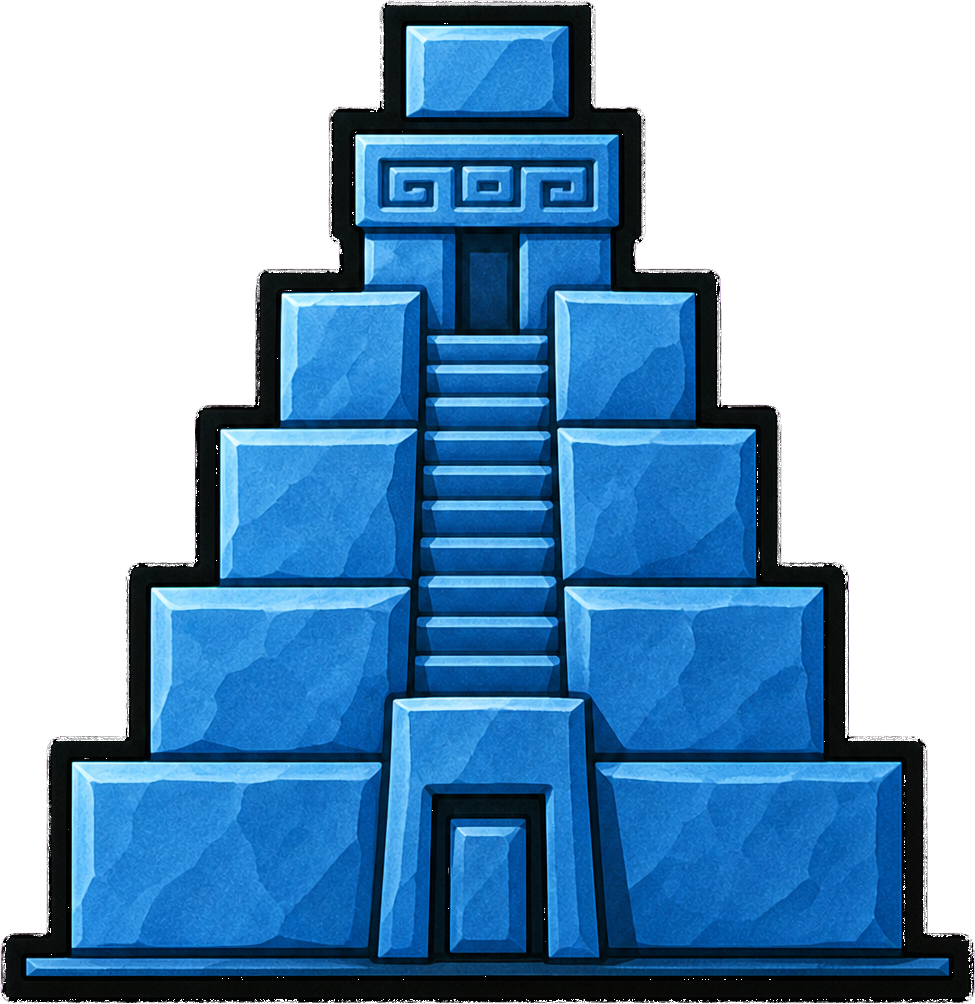
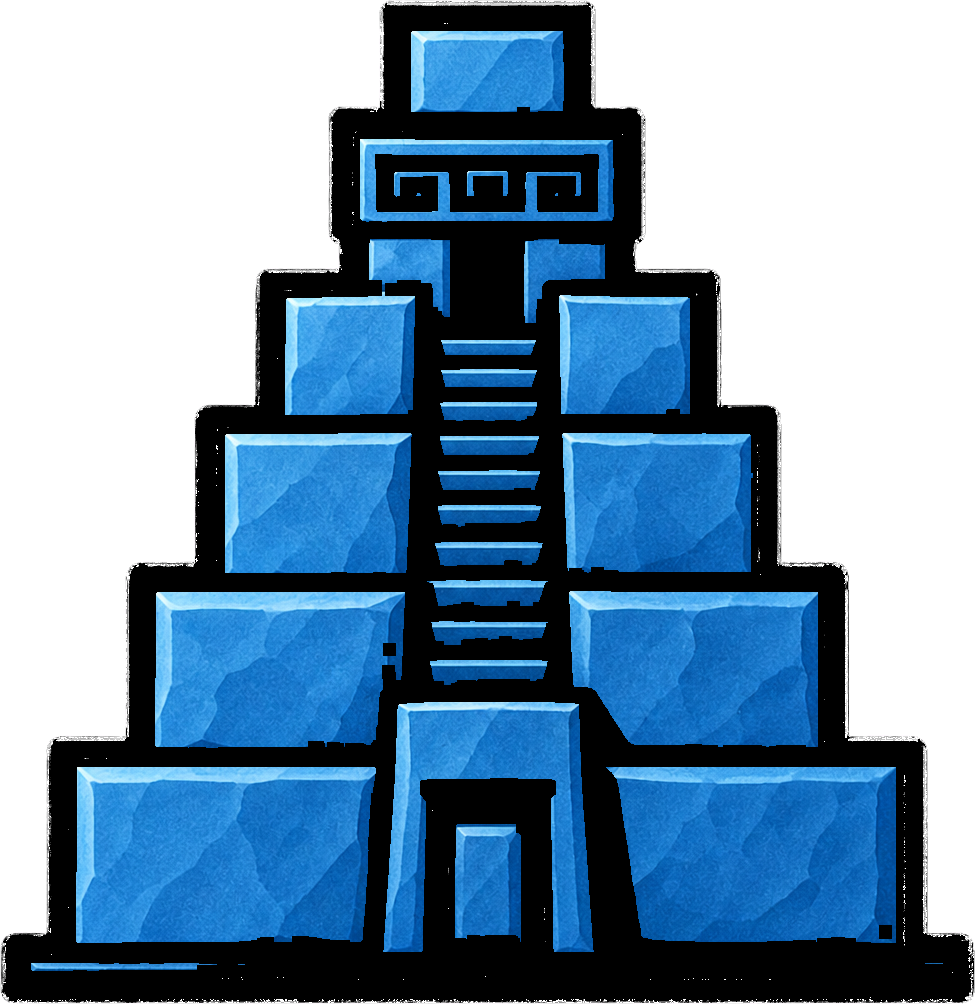
Thicken Aztec/Rome/Greece piece outlines to match Japan/Norse/Egypt boldness
Added thicken_piece_lines.py: finds near-black pixels within a piece's
alpha shape (covers both the outer border and interior detail lines -
same 'ink' in this style), opens (erode+dilate) to drop stray
anti-aliased speckle noise first, then dilates the real linework
inward by a radius proportional to canvas size. Dilation is
intersected with the original alpha mask, so it can only thicken the
stroke - never extend the silhouette or bleed into transparent
background.

Applied only to the 6 files actually flagged (aztec-/rome-/
greece-{settlement,city}.png). Tried the same formula on
japan-settlement.png too (since 'thicker everywhere' was offered as an
option) but it visibly degraded the roof's smooth edge into a jagged
staircase - a curved edge is more sensitive to a disk structuring
element's blockiness than the flagged pieces' more angular
silhouettes - so that broader pass was reverted rather than shipped.

Claude-Session: https://claude.ai/code/session_01454PvXy951ApESgbZz1ejR

Changed region(s): [[0.0308, 0.0, 0.9846, 0.988]]

diff --git a/design-references/tiles/_scripts/thicken_piece_lines.py b/design-references/tiles/_scripts/thicken_piece_lines.py
@@ -1,0 +1,75 @@
+#!/usr/bin/env python3
+"""Thicken the black outline/detail lines of a painted piece PNG in place,
+without touching its silhouette size or any non-black color.
+
+Finds near-black pixels within the piece's own alpha shape (the outer
+silhouette border AND interior detail lines - doorways, arches, etc. - are
+all the same "black ink" in this art style, so one operation covers both),
+dilates that mask inward by `radius` pixels using a disk structuring
+element, and recolors the newly-covered pixels black. Dilating is
+intersected with the original alpha mask, so growth can only eat into the
+piece's own colored area, never bleed outside the silhouette into the
+transparent background - the shape's outer edge doesn't move, the stroke
+drawn along it just gets wider.
+
+Usage:
+  python3 thicken_piece_lines.py <piece.png> <radius_px> [--threshold 70]
+"""
+import argparse
+from pathlib import Path
+
+import numpy as np
+from PIL import Image
+from scipy.ndimage import binary_dilation, binary_opening, generate_binary_structure, iterate_structure
+
+
+def thicken(path: Path, radius: int, threshold: int) -> None:
+    im = Image.open(path).convert("RGBA")
+    arr = np.asarray(im).astype(np.uint8)
+    rgb = arr[:, :, :3].astype(np.int32)
+    alpha = arr[:, :, 3]
+
+    is_opaque = alpha > 10
+    is_dark = rgb.sum(axis=2) < threshold * 3
+    black_mask = is_dark & is_opaque
+
+    # Opening (erode then dilate) with a small fixed structure first -
+    # removes lone speckle noise (a few near-black anti-aliased pixels
+    # inside a shaded area that happen to cross the darkness threshold,
+    # not real linework) before growing anything, so growth only amplifies
+    # actual connected stroke lines, not scattered specks into blobs.
+    if black_mask.any():
+        black_mask = binary_opening(black_mask, structure=generate_binary_structure(2, 2))
+
+    if radius > 0:
+        structure = iterate_structure(generate_binary_structure(2, 2), radius)
+        dilated = binary_dilation(black_mask, structure=structure)
+        dilated &= is_opaque
+    else:
+        dilated = black_mask
+
+    out = arr.copy()
+    out[dilated, 0] = 0
+    out[dilated, 1] = 0
+    out[dilated, 2] = 0
+    # Alpha untouched - only recoloring existing opaque pixels, never
+    # extending the shape's own silhouette.
+
+    added_pct = 100 * (dilated.sum() - black_mask.sum()) / max(1, is_opaque.sum())
+    print(f"{path.name}: black {100*black_mask.sum()/max(1,is_opaque.sum()):.1f}% -> "
+          f"{100*dilated.sum()/max(1,is_opaque.sum()):.1f}% of piece (+{added_pct:.1f}pp), radius={radius}")
+
+    Image.fromarray(out, "RGBA").save(path)
+
+
+def main() -> None:
+    parser = argparse.ArgumentParser()
+    parser.add_argument("path", type=Path)
+    parser.add_argument("radius", type=int)
+    parser.add_argument("--threshold", type=int, default=70)
+    args = parser.parse_args()
+    thicken(args.path, args.radius, args.threshold)
+
+
+if __name__ == "__main__":
+    main()

diff --git a/design-references/STATUS.md b/design-references/STATUS.md
@@ -188,6 +188,26 @@ native gold `strokeBorder` + a thin inset dark-maroon accent line, color sampled
 `bank-fill.png` is the same borderless-crop treatment as `dice-fill.png`/`button-fill-*.png`. Port frame and
 menu icon are unrelated (a filled ring/circle, not a bordered rectangle) and weren't touched.
 
+## Aug 21 piece outline thickness (Aztec/Rome/Greece)
+
+Feedback: piece outlines/detail linework read as too thin on Aztec, Rome, and Greece specifically (Japan,
+Norse, Egypt, Britannia, and Columbia were already fine). Fixed deterministically rather than
+re-generating - `tiles/_scripts/thicken_piece_lines.py` finds near-black pixels within a piece's own alpha
+shape (covers both the outer silhouette border and interior detail lines - doorways, arches - since they're
+the same "black ink" in this style), runs a binary opening first to drop stray anti-aliased specks inside
+shaded areas (without it, dilation was amplifying single-pixel noise into visible blobs), then dilates the
+real linework inward by a radius proportional to the piece's own canvas size (`~0.0052 * min(w, h)`, floor
+2px) - dilation is intersected with the original alpha mask, so growth can only thicken the stroke, never
+extend the silhouette's outer edge or bleed into the transparent background.
+
+**Only applied to the 6 flagged files** (`aztec-/rome-/greece-{settlement,city}.png`), not all 16 - an
+early test pass at the same formula on `japan-settlement.png` (already "good") visibly degraded its wide
+roof edge into a jagged staircase (a curved/gently-sloped edge is more sensitive to a disk structuring
+element's blockiness than the flagged pieces' already-more-angular silhouettes), so the extend-to-everyone
+option got reverted (`git checkout`) rather than shipped. If a future pass wants that generalized
+"thicker everywhere" look, `thicken_piece_lines.py` is reusable, but expect to hand-check each result -
+don't assume a formula calibrated on one piece transfers cleanly to a differently-shaped one.
+
 ## Other pending work
 
 1. **HUD player card (the colored info panel per player)** — deliberately not reskinned. It has 9 places
